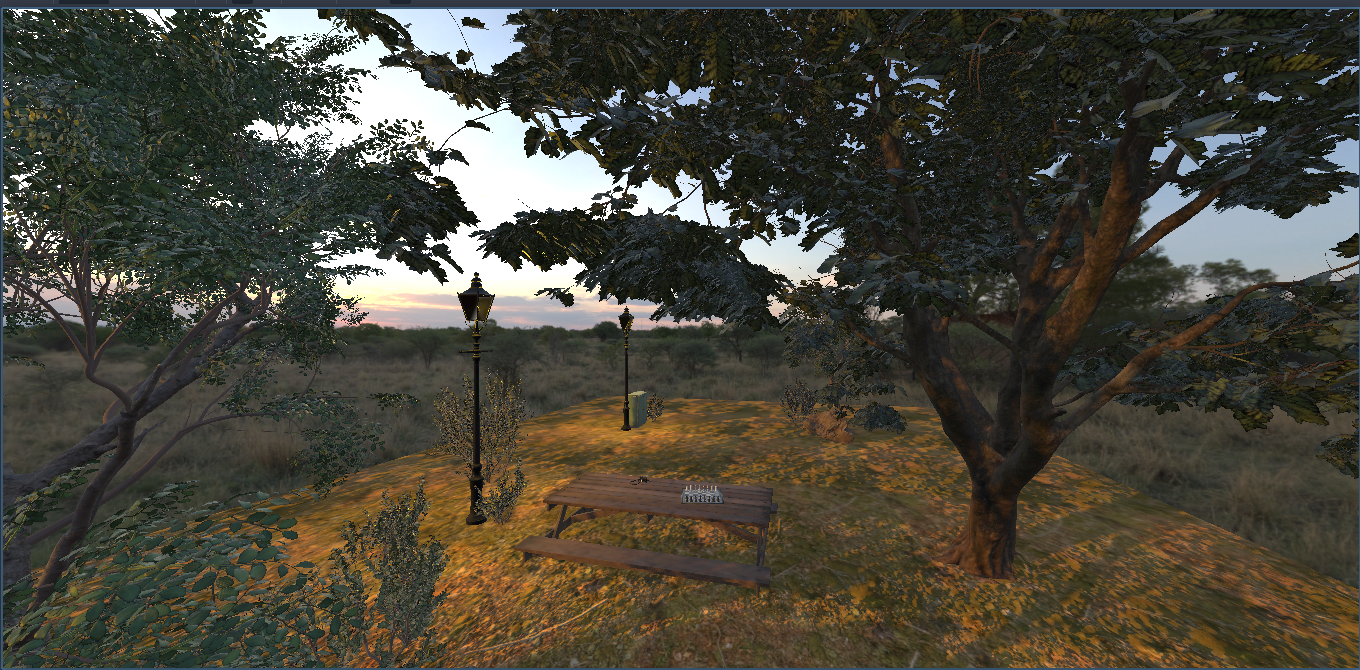
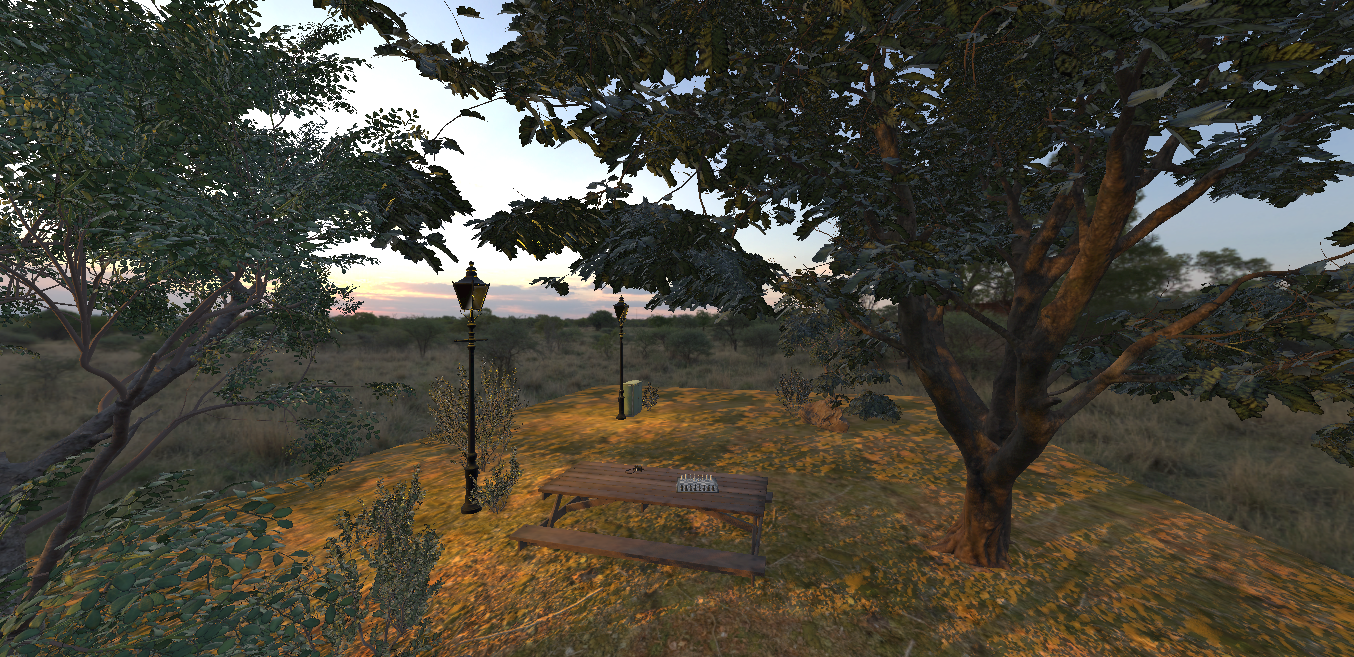
fix preview screenshot

diff --git a/README.md b/README.md
@@ -4,7 +4,7 @@ For the VRM laboratory the godot game engine is been used. For uploading large f
 ## Lab 1
 The Brance *lab-1* is used for the first exercise.
 
-![asd](/preview.png "This is an image from the sceen")
+![Enviroment Screenshot](/preview.png "Screenshot of the enviroment")
 
 
 #### Resource List 
